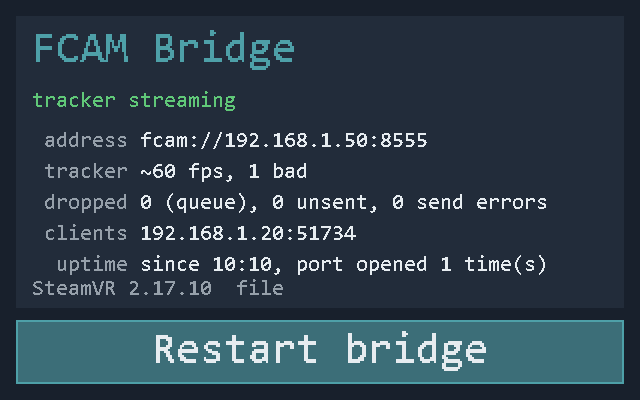
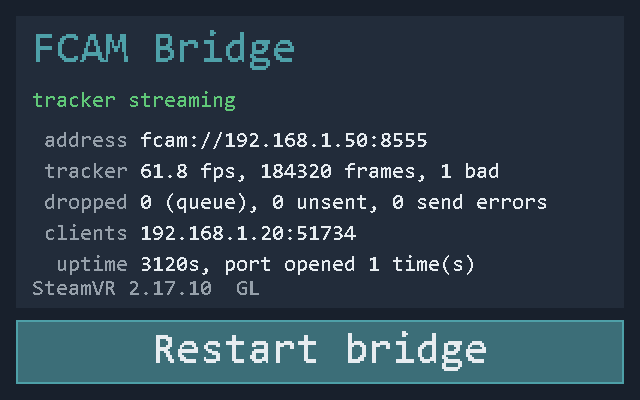
GLES texture mode by default; README without 0.1.x material
The overlay now defaults to --texture-mode auto: one persistent GLES texture
handed to SteamVR with SetOverlayTexture (no reloads, no blinking), falling
back to file mode if GL fails, never to raw. Measured on the Steam Frame
without SteamVR in the loop: panel draw 1.4 ms, GL upload 0.26 ms (file mode's
PNG encode alone is 2.7 ms), 1.6 % of one core at the 4 Hz open-tab redraw
rate, 9.7 % at 25 Hz continuous hover, nothing while the tab is hidden;
GL setup 20 ms and 28 MB once. The README has a Performance section with
these numbers and says what was not measured (SteamVR's work inside
SetOverlayTexture; GL exit safety, which gl_exit_test.sh can check).

The README no longer covers 0.1.x (upgrade notes, the old udev rule, old
instances); the compatibility code for them is unchanged. The screenshot is
re-rendered in GL mode, and install-overlay.sh, --help and gl_exit_test.sh
describe the new default.

diff --git a/tests/test_overlay_texture.py b/tests/test_overlay_texture.py
@@ -373,9 +373,9 @@ class ResolveSinkTests(unittest.TestCase):
 
 
 class ArgumentTests(unittest.TestCase):
-    def test_default_is_file_mode_in_phase_one(self):
+    def test_default_is_auto_mode(self):
         args = fcam_overlay.build_parser().parse_args([])
-        self.assertEqual("file", args.texture_mode)
+        self.assertEqual("auto", args.texture_mode)
         self.assertFalse(args.unsafe_raw)
         self.assertEqual(("auto", "gl", "file", "none", "raw"), fcam_overlay.TEXTURE_MODES)
 
@@ -389,11 +389,13 @@ class ArgumentTests(unittest.TestCase):
 
     def test_run_arguments_keep_only_run_options(self):
         parser = fcam_overlay.build_parser()
-        args = parser.parse_args(["--install", "--no-launch", "--texture-mode", "auto", "--target", "10.0.0.2",
+        args = parser.parse_args(["--install", "--no-launch", "--texture-mode", "file", "--target", "10.0.0.2",
                                   "--target", "10.0.0.3:9000", "-v", "--listen", "0.0.0.0:8555"])
-        self.assertEqual(["--target", "10.0.0.2", "--target", "10.0.0.3:9000", "--verbose", "--texture-mode", "auto"],
+        self.assertEqual(["--target", "10.0.0.2", "--target", "10.0.0.3:9000", "--verbose", "--texture-mode", "file"],
                          fcam_overlay.run_arguments(parser, args))
         self.assertEqual([], fcam_overlay.run_arguments(parser, parser.parse_args(["--install"])))
+        self.assertEqual([], fcam_overlay.run_arguments(parser, parser.parse_args(["--install", "--texture-mode",
+                                                                                   "auto"])))
         self.assertEqual([], fcam_overlay.run_arguments(parser, parser.parse_args(["--start"])))
 
     def test_start_takes_no_run_options(self):
@@ -432,14 +434,15 @@ class ArgumentTests(unittest.TestCase):
                     mock.patch.object(fcam_overlay, "config_dir", lambda: tmp), \
                     mock.patch.object(fcam_overlay, "register_live", fake_register_live), \
                     contextlib.redirect_stdout(io.StringIO()) as out:
-                self.assertEqual(0, fcam_overlay.main(["--install", "--texture-mode", "auto"]))
-                self.assertEqual("--texture-mode auto", fcam_overlay.manifest_arguments(manifest))
-                self.assertEqual((True, True, ["--texture-mode", "auto"]), recorded[-1])
-                self.assertIn("texture mode: auto", out.getvalue())
+                self.assertEqual(0, fcam_overlay.main(["--install", "--texture-mode", "file"]))
+                self.assertEqual("--texture-mode file", fcam_overlay.manifest_arguments(manifest))
+                self.assertEqual((True, True, ["--texture-mode", "file"]), recorded[-1])
+                self.assertIn("texture mode: file", out.getvalue())
                 # installing again without options goes back to the defaults
                 self.assertEqual(0, fcam_overlay.main(["--install", "--no-launch"]))
                 self.assertEqual("", fcam_overlay.manifest_arguments(manifest))
                 self.assertEqual((True, False, []), recorded[-1])
+                self.assertIn("texture mode: auto (manifest arguments: none)", out.getvalue())
             with open(manifest, "rb") as fh:
                 self.assertEqual(original, fh.read())
             self.assertFalse(os.path.exists(manifest + ".tmp"))

diff --git a/overlay/fcam_overlay.py b/overlay/fcam_overlay.py
@@ -11,12 +11,11 @@ Standard library only. Works headless too: while SteamVR is not running the brid
 streaming and the overlay connects as soon as SteamVR comes up.
 
 How the panel reaches SteamVR (--texture-mode):
-    file   PNG in $XDG_RUNTIME_DIR, SetOverlayFromFile; only when the content changed, at most every
-           2 s (SteamVR loads it asynchronously). The default until the GL path passed the on-headset
-           exit test (tools/gl_exit_test.sh).
+    auto   gl, falling back to file when GL fails. The default.
     gl     one persistent GLES texture (gl_texture.py, EGL surfaceless), SetOverlayTexture; if GL
            cannot be used the tab stays blank (strict, for testing).
-    auto   gl, falling back to file when GL fails.
+    file   PNG in $XDG_RUNTIME_DIR, SetOverlayFromFile; only when the content changed, at most every
+           2 s (SteamVR loads it asynchronously). What auto falls back to; exits safely (verified).
     none   no texture at all (diagnostics).
     raw    SetOverlayRaw; only with --unsafe-raw: it crashes vrcompositor on the Steam Frame when the
            overlay exits. Never chosen automatically.
@@ -78,7 +77,7 @@ LEGACY_LOCK = os.path.join(HERE, "fcam_overlay.lock")   # 0.1.x: per install dir
 LEGACY_PANEL_FILE = "/dev/shm/fcam-panel-%d.png"         # written only by 0.1.x builds in file mode
 
 TEXTURE_MODES = ("auto", "gl", "file", "none", "raw")
-DEFAULT_TEXTURE_MODE = "file"   # phase 1: GL stays opt-in until tools/gl_exit_test.sh passed on the headset
+DEFAULT_TEXTURE_MODE = "auto"   # GL (SetOverlayTexture), file mode if GL fails; never raw
 RESTARTABLE_MODES = ("auto", "gl", "file", "none")
 RAW_REFUSED = ("--texture-mode raw needs --unsafe-raw: SetOverlayRaw leaves vrcompositor holding a buffer "
                "that belongs to this process, and on the Steam Frame the compositor dies with SIGBUS as soon "
@@ -1660,9 +1659,9 @@ def build_parser():
     parser.add_argument("--no-launch", action="store_true", help="with --install: do not (re)start the overlay now")
     parser.add_argument("--openvr-lib", default=None, help="path to libopenvr_api.so (auto-detected)")
     parser.add_argument("--texture-mode", choices=TEXTURE_MODES, default=DEFAULT_TEXTURE_MODE,
-                        help="how the panel reaches SteamVR: 'file' (PNG via SetOverlayFromFile, default), 'gl' "
-                             "(persistent GL texture via SetOverlayTexture), 'auto' (gl, else file), 'none' "
-                             "(no texture); 'raw' needs --unsafe-raw")
+                        help="how the panel reaches SteamVR: 'auto' (gl, else file; default), 'gl' "
+                             "(persistent GL texture via SetOverlayTexture), 'file' (PNG via SetOverlayFromFile), "
+                             "'none' (no texture); 'raw' needs --unsafe-raw")
     parser.add_argument("--unsafe-raw", action="store_true",
                         help="debugging only: allow --texture-mode raw (SetOverlayRaw), which crashes the Steam "
                              "Frame compositor when the overlay exits")

diff --git a/overlay/tools/render_screenshot.py b/overlay/tools/render_screenshot.py
@@ -6,7 +6,6 @@ repository root after changing the panel:
 """
 import os
 import sys
-import time
 
 HERE = os.path.dirname(os.path.abspath(__file__))
 ROOT = os.path.dirname(os.path.dirname(HERE))
@@ -14,19 +13,18 @@ sys.path[:0] = [os.path.join(ROOT, "overlay"), ROOT]
 
 import fcam_overlay  # noqa: E402
 
-# A tracker streaming to one Babble client, in the default file texture mode. Example addresses only.
+# A tracker streaming to one Baballonia client, in the default texture mode (auto) with the GL path in use:
+# live numbers, as OverlayApp.redraw() draws them for a live sink (coarse=None). Example addresses only.
 SNAPSHOT = {"state": "streaming", "source": "/dev/ttyACM0", "fps": 61.8, "frames": 184320, "bad": 1,
             "dropped": 0, "unsent": 0, "send_errors": 0, "subscribers": ["192.168.1.20:51734"],
             "listen_port": 8555, "uptime": 3120, "opens": 1}
-STARTED = time.mktime((2026, 9, 26, 11, 2, 0, 0, 0, -1))
 
 
 def main():
     out = sys.argv[1] if len(sys.argv) > 1 else os.path.join(ROOT, "docs", "overlay-panel.png")
     panel = fcam_overlay.Panel(fcam_overlay.PANEL_W, fcam_overlay.PANEL_H)
-    coarse = fcam_overlay.CoarseNumbers(wall=lambda: STARTED)
-    fcam_overlay.draw_panel(panel, SNAPSHOT, False, "2.17.10", sink_label="file", ip="192.168.1.50",
-                            coarse=coarse)
+    fcam_overlay.draw_panel(panel, SNAPSHOT, False, "2.17.10", sink_label=fcam_overlay.GlSink.label,
+                            ip="192.168.1.50", coarse=None, debug_frame=None)
     os.makedirs(os.path.dirname(os.path.abspath(out)), exist_ok=True)
     with open(out, "wb") as fh:
         fh.write(panel.to_png())

diff --git a/tests/test_cdc_acm_loader.py b/tests/test_cdc_acm_loader.py
@@ -299,9 +299,6 @@ class ModuleLoadPathTests(unittest.TestCase):
         self.assertRegex(check, r"if old_rule_present; then\n[^\n]*\n\s*rc=1")   # --check fails
         # --install goes through the installer (which removes the rule) while the rule is there
         self.assertIn('if [ -x "$STORE/stage-cdc-acm" ] && ! old_rule_present; then', build)
-        readme = read_text(os.path.join(ROOT, "README.md"))
-        upgrade = readme[readme.index("- **Upgrading from 0.1.x"):]
-        self.assertIn(OLD_RULE, upgrade[:upgrade.index("\n- ")])
 
 
 class RootScriptTests(unittest.TestCase):

diff --git a/README.md b/README.md
@@ -22,9 +22,10 @@ on the headset.
 
 ![The FCAM Bridge tab in the SteamVR dashboard](docs/overlay-panel.png)
 
-*The FCAM Bridge tab with a tracker streaming to one Baballonia client (default file texture
-mode). Rendered with the overlay's own drawing code by `overlay/tools/render_screenshot.py`;
-on the headset it is a 1.5 m wide panel in the SteamVR dashboard.*
+*The FCAM Bridge tab with a tracker streaming to one Baballonia client (default texture mode,
+GL path in use: `GL` in the footer). Rendered with the overlay's own drawing code by
+`overlay/tools/render_screenshot.py`; on the headset it is a 1.5 m wide panel in the SteamVR
+dashboard.*
 
 ## What you need on the headset
 
@@ -66,36 +67,22 @@ attaches to SteamVR as soon as it comes up). No root is needed for this part.
 Options given to `install-overlay.sh` are overlay options: they are written
 into the manifest's `arguments`, which SteamVR launches the overlay with, and a
 running instance is restarted with them. The installer prints the texture mode
-that is now registered. For example, to switch to the GL texture path once
-[the on-headset test](#testing-the-gl-texture-path-on-the-headset) has passed:
+that is now registered. The default is `auto`: the GL texture path, with file
+mode as the fallback when GL cannot be used (see [Texture modes](#texture-modes)).
+For example, to switch to file mode, and back:
 
 ```sh
-bash ~/Babble-Bridge/overlay/install-overlay.sh --texture-mode auto   # GL, file mode if GL fails
-bash ~/Babble-Bridge/overlay/install-overlay.sh                       # back to the defaults (file)
+bash ~/Babble-Bridge/overlay/install-overlay.sh --texture-mode file   # PNG files that SteamVR loads itself
+bash ~/Babble-Bridge/overlay/install-overlay.sh                       # back to the defaults (auto: GL, file if GL fails)
 ```
 
 An instance that may run in raw mode is not stopped by the installer, because
 stopping it crashes the compositor; it prints `restart required: reboot the
 headset` instead. That is an instance started with `--texture-mode raw`, and
-any 0.1.x instance that shows no sign of file mode: the first 0.1.0 builds
-always used `SetOverlayRaw`.
+any instance whose texture mode cannot be told.
 
 If `/dev/ttyACM0` does not show up when the tracker is plugged in, build and
 load the driver (see the next section).
-
-**Coming from 0.1.x?** Its instructions installed
-`/etc/udev/rules.d/90-babble-tracker.rules`, which has root load
-`~/cdc-acm/cdc-acm.ko` whenever the tracker is plugged in, a file any program
-running as `steamos` can replace. Remove it even if the port works:
-`install-overlay.sh`, `install-headset.sh` and `build-cdc-acm.sh` warn while
-it is there (and `build-cdc-acm.sh --check` fails). Either set up the new
-loader, which removes it (`build-cdc-acm.sh --install`, or
-`sudo /usr/bin/bash ~/Babble-Bridge/root/install-cdc-acm-loader.sh`), or only
-remove it:
-
-```sh
-sudo rm /etc/udev/rules.d/90-babble-tracker.rules && sudo udevadm control --reload
-```
 
 ## Building cdc-acm.ko
 
@@ -182,13 +169,13 @@ sudo /usr/bin/bash ~/Babble-Bridge/root/install-cdc-acm-loader.sh --uninstall   
 Staging and `--rearm` unload `cdc_acm` to test the build through the unit. While
 the FCAM bridge holds the tracker port that is impossible, so they stop before
 they stage or arm anything, and the build that is armed stays armed (on the
-first `--install`, or while the 0.1.x rule is still installed, the loader files
-are installed before that; the installer says so). Unplug the tracker, or stop
+first `--install` the loader files are installed before that; the installer
+says so). Unplug the tracker, or stop
 the overlay with `python3 ~/fcam/fcam_overlay.py --stop`, then run the command
 again. `--stop` waits until the overlay has exited, and it refuses an instance
-that may use raw mode (`--status` shows its texture mode as `raw` or `unknown`,
-for example an old 0.1.x instance): stopping that one would crash the
-compositor, so unplug the tracker instead. Afterwards start the overlay again
+that may use raw mode (`--status` shows its texture mode as `raw` or
+`unknown`): stopping that one would crash the compositor, so unplug the
+tracker instead. Afterwards start the overlay again
 with the options it was installed with: `python3 ~/fcam/fcam_overlay.py
 --start` (SteamVR itself only starts it when SteamVR starts).
 
@@ -260,9 +247,9 @@ ways (`--texture-mode`):
 
 | Mode | How | When GL fails | Status |
 |---|---|---|---|
-| `file` (default) | PNG in `$XDG_RUNTIME_DIR`, `SetOverlayFromFile`; SteamVR loads it itself | – | Safe on exit (verified). The tab may blink when it reloads. |
-| `gl` | One persistent GLES texture (`gl_texture.py`, EGL surfaceless), `SetOverlayTexture` on every update | ERROR in the log, blank tab (`none (GL failed)`), so a failed test is obvious | Pending the on-headset test |
-| `auto` | `gl`, falling back to `file` | ERROR in the log, then file mode for the rest of the process (`file (GL failed)`) | Becomes the default after the test passes |
+| `auto` (default) | `gl`, falling back to `file` | ERROR in the log, then file mode for the rest of the process (`file (GL failed)`) | The default. Exit safety of the GL path not systematically tested (see "Known issues"). |
+| `gl` | One persistent GLES texture (`gl_texture.py`, EGL surfaceless), `SetOverlayTexture` on every update | ERROR in the log, blank tab (`none (GL failed)`), so a failure is obvious | Strict, for testing the GL path on its own (`gl_exit_test.sh`) |
+| `file` | PNG in `$XDG_RUNTIME_DIR`, `SetOverlayFromFile`; SteamVR loads it itself | – | Safe on exit (verified). The tab may blink when it reloads. Use it if vrcompositor ever crashes when the overlay exits. |
 | `none` | No texture at all (diagnostics) | – | – |
 | `raw` | `SetOverlayRaw`; only together with `--unsafe-raw` | – | Crashes vrcompositor on exit (see below). Never chosen automatically. |
 
@@ -302,6 +289,27 @@ or `GL texture path unavailable (...)` when the texture path is chosen, and
   versions is logged as an ERROR (`SteamVR runtime not usable`), not as
   SteamVR still starting.
 
+### Performance
+
+Measured on the Steam Frame (SM8650, 8 cores; Python 3.12; Mesa zink on Turnip,
+Adreno 750, GLES 3.2) on 2026-09-26, with the overlay's own code and without
+SteamVR in the loop:
+
+| What | Measured |
+|---|---|
+| Drawing the panel (`draw_panel`, full 640x400) | median 1.36 ms, p95 2.56 ms |
+| GL upload (row flip, `glTexSubImage2D`, `glFlush`) | median 0.26 ms, p95 0.89 ms; with `glFinish` median 0.31 ms |
+| File mode, for comparison: PNG encode per update | median 2.74 ms, plus SteamVR loading the file again (not measured) |
+| GL context setup, once per process | 20 ms, +28 MB RSS (about 51 MB for the whole process) |
+| Draw + GL upload at 4 Hz (the redraw rate while the tab is open) | 1.6 % of one core |
+| Draw + GL upload at 25 Hz (worst case: continuous hover) | 9.7 % of one core |
+| Tab hidden | no uploads in GL mode |
+
+Not measured: the work SteamVR itself does inside `SetOverlayTexture` (the
+Steam Frame Eye overlay on the same headset makes the same call at 25 Hz).
+Whether vrcompositor survives a GL overlay's exit is a separate question and
+has not been systematically tested (see "Known issues").
+
 ## Known issues on the Steam Frame (SteamVR 2.17.10, gamescope 3.16.28-43)
 
 - **`SetOverlayRaw` crashes vrcompositor when the client exits.** A texture uploaded
@@ -310,28 +318,19 @@ or `GL texture path unavailable (...)` when the texture path is chosen, and
   headset UI) then crash-loops on `CVulkanTexture::BInit: Assertion !modifiers.empty()`
   until the overlay is gone. Raw mode is therefore only available as
   `--texture-mode raw --unsafe-raw`, for debugging, and never used automatically.
-- **File mode is the default for now.** `SetOverlayFromFile` is loaded by the
+- **The exit safety of the GL path (`auto`, the default) is not systematically
+  tested.** It uses the same `SetOverlayTexture` path as the Steam Frame Eye
+  overlay, but whether the compositor survives the overlay exiting (normally,
+  killed, and across reconnects) has only been observed once. To check it on
+  your own headset, run the optional
+  [`overlay/tools/gl_exit_test.sh`](#testing-the-gl-texture-path-on-the-headset).
+  If vrcompositor ever crashes when the overlay exits, switch to file mode:
+  `bash ~/Babble-Bridge/overlay/install-overlay.sh --texture-mode file`.
+- **File mode is the verified fallback.** `SetOverlayFromFile` is loaded by the
   server itself, and with it the compositor survives the overlay exiting and
   gamescope restarts cleanly while the overlay is alive (verified). The load is
   asynchronous (about 1 s) and may show a blank frame, which is why file mode
   uploads at most every 2 s and only when the content changed.
-- **The GL path is pending the on-headset test.** It uses the same
-  `SetOverlayTexture` path as the Steam Frame Eye overlay, but whether the
-  compositor survives the overlay exiting (normally, killed, and across
-  reconnects) has only been observed once. Run
-  [`overlay/tools/gl_exit_test.sh`](#testing-the-gl-texture-path-on-the-headset)
-  with blocks E (by hand) and F (`--blocks F`), then switch with
-  `bash ~/Babble-Bridge/overlay/install-overlay.sh --texture-mode auto`.
-  Result so far: not run yet.
-- **Upgrading from 0.1.x:** remove `/etc/udev/rules.d/90-babble-tracker.rules`
-  if its instructions had you install it: it lets any program running as
-  `steamos` load kernel code (see [Install](#install-steamvr-overlay); the
-  installers warn about it). `install-overlay.sh` restarts a running instance
-  only when it can tell that it uses file mode (an explicit `--texture-mode
-  file`, or the panel file the file-mode 0.1.x builds keep in `/dev/shm`). Any
-  other old instance may be one of the first 0.1.0 builds, which always used
-  raw mode, so it is left alone (stopping it would crash the compositor):
-  reboot the headset instead.
 - If the headset UI ever loops ("Dependency failed for Gamescope VR Session" every
   second in `journalctl --user`), remove the overlay first:
   `python3 ~/fcam/fcam_overlay.py --uninstall`, then `pkill -f fcam_overlay.py`.
@@ -340,11 +339,12 @@ or `GL texture path unavailable (...)` when the texture path is chosen, and
 
 ## Testing the GL texture path on the headset
 
-`overlay/tools/gl_exit_test.sh` runs blocks A-D of the exit test, and block F
-on request. Run it on the headset as `steamos`, with SteamVR running, from the
-copy to be tested, in a terminal: blocks B2 and F ask you to open the tab, so
-over ssh use `ssh -t` (without a terminal the script refuses to start, unless
-`--no-prompt` skips B2 and F, and then the result cannot be PASS):
+`overlay/tools/gl_exit_test.sh` is an optional check of the GL path on your own
+headset. It runs blocks A-D of the exit test, and block F on request. Run it on
+the headset as `steamos`, with SteamVR running, from the copy to be tested, in
+a terminal: blocks B2 and F ask you to open the tab, so over ssh use `ssh -t`
+(without a terminal the script refuses to start, unless `--no-prompt` skips B2
+and F, and then the result cannot be PASS):
 
 ```sh
 ssh -t steamos@<headset-ip> 'bash ~/Babble-Bridge/overlay/tools/gl_exit_test.sh'              # blocks A-D, about 25 minutes
@@ -408,7 +408,7 @@ Then:
   open when the headset went into standby (a hidden tab uploads nothing); with
   the tab closed their absence is not a failure.
   `bash ~/Babble-Bridge/overlay/install-overlay.sh` (no options) goes back to
-  file mode.
+  the default (`auto`).
 - **F: smoothness and resources:** `gl_exit_test.sh --blocks F`. It stops the
   installed overlay first, because a second instance would fight over the same
   overlay key. With the tab open, the marker at the top right must move
@@ -418,9 +418,9 @@ Then:
   flat. It also counts the `GL error(s) ... left by SetOverlayTexture` lines
   in the log.
 
-If only SIGKILL runs crash, GL is still better than raw, but decide before
-changing the default. If anything crashes and the headset UI loops, see
-"Known issues".
+If a `gl` run crashes vrcompositor, switch to file mode
+(`bash ~/Babble-Bridge/overlay/install-overlay.sh --texture-mode file`); if the
+headset UI loops, see "Known issues".
 
 ## Bridge options
 
@@ -441,11 +441,11 @@ or `/dev/serial/by-id/usb-Espressif_USB_JTAG_serial_debug_unit_<serial>-if00`.
 
 `fcam_overlay.py` accepts the same options plus `--install`, `--uninstall`,
 `--status`, `--start`, `--stop`, `--no-launch`, `--openvr-lib`, `--log-file`, `--lock-file`,
-`--texture-mode auto|gl|file|none` (see [Texture modes](#texture-modes)) and
+`--texture-mode auto|gl|file|none` (default `auto`, see [Texture modes](#texture-modes)) and
 `--app-type overlay|background`. `--unsafe-raw` exists for debugging only: it
 allows `--texture-mode raw`. `--install` writes the other options given with it
 into the manifest's `arguments` (which SteamVR launches the overlay with) and
-restarts a running instance, so `install-overlay.sh --texture-mode auto`
+restarts a running instance, so `install-overlay.sh --texture-mode file`
 switches the mode; `--status` shows the registered arguments and the running
 instance with its texture path. The single-instance lock is
 `$XDG_RUNTIME_DIR/ottlabs.fcam.lock` (JSON: pid, version, texture mode, texture
@@ -467,7 +467,7 @@ default 30), which is how the bridge is tested without a headset.
 | `overlay/install-overlay.sh` | Installer (no root). |
 | `overlay/tools/dmabuf_probe.py` | Diagnostic: dmabuf formats/modifiers SteamVR offers (see known issues). |
 | `overlay/tools/render_screenshot.py`, `docs/overlay-panel.png` | Renders the README screenshot of the dashboard panel. |
-| `overlay/tools/gl_exit_test.sh` | On-headset exit test of the GL texture path (blocks A-D and F, see above). |
+| `overlay/tools/gl_exit_test.sh` | Optional on-headset exit test of the GL texture path (blocks A-D and F, see above). |
 | `overlay/tools/gen_openvr_indices.py` | Prints the OpenVR function-table positions from `openvr_capi.h`, to re-check `openvr_min.py`. |
 | `fcam-bridge.service`, `install-headset.sh` | systemd alternative. |
 | `build-cdc-acm.sh` | Builds `cdc-acm.ko` for the running kernel on the headset (no root); `--install` stages it for loading at boot (one sudo password). |
@@ -492,7 +492,7 @@ while time.time() - t < 3:
 EOF
 ```
 
-Then replay it on the PC and point Babble (or its `tools/FcamProbe`) at it:
+Then replay it on the PC and point Baballonia (or its `tools/FcamProbe`) at it:
 
 ```sh
 python fcam_bridge.py --serial tracker.etvr --listen 127.0.0.1:8555 --stats 5
@@ -546,8 +546,8 @@ push and builds the release tarballs on the Forgejo mirror.
 | `... closed, waiting for it to come back` repeatedly | The tracker is re-enumerating on USB (power, hub or cable). The bridge finds it again by USB id, whichever `ttyACMn` it gets. |
 | `overlay upload failed ... RequestFailed` once | SteamVR's compositor is in standby (headset off). Uploads resume when it wakes (`overlay uploads work again`). |
 | Panel footer shows `file (GL failed)` or `none (GL failed)` | The GL texture path could not be used. `grep 'GL texture path' ~/fcam/fcam_overlay.log` shows why (missing `libEGL.so.1`, no surfaceless EGL display, GL errors during uploads, SteamVR rejecting the GL texture). |
-| The tab blinks every few seconds | File mode: SteamVR reloads the PNG when the panel content changed (at most every 2 s). The GL path does not blink; switch to it with `install-overlay.sh --texture-mode auto` once the GL test passed. |
-| `--install` says `restart required: reboot the headset`, or `--uninstall` says `left running` | The running instance uses raw mode, or may (an old 0.1.x instance whose mode cannot be told), and stopping it while SteamVR runs would crash the compositor. Reboot the headset; after `--install` SteamVR then starts the new version. |
+| The tab blinks every few seconds | File mode: SteamVR reloads the PNG when the panel content changed (at most every 2 s). The GL path does not blink. If the footer says `file (GL failed)`, see the row above; if the overlay was installed with `--texture-mode file`, `install-overlay.sh` without it goes back to the default (`auto`). |
+| `--install` says `restart required: reboot the headset`, or `--uninstall` says `left running` | The running instance uses raw mode, or may (an instance whose texture mode cannot be told), and stopping it while SteamVR runs would crash the compositor. Reboot the headset; after `--install` SteamVR then starts the new version. |
 | `gl_exit_test.sh` ends with `RESULT: NOT FINISHED` | The headset went to standby (or SteamVR restarted) during the test; no crash was found. Keep the headset awake and run it again. |
 | Headset UI restarts every second | See "Known issues": unregister the overlay (`--uninstall`, then `pkill -f fcam_overlay.py`). Never run `--texture-mode raw`. |
 | Bridge stops after headset standby | Expected when SteamVR shuts down; it is relaunched when SteamVR starts. |
